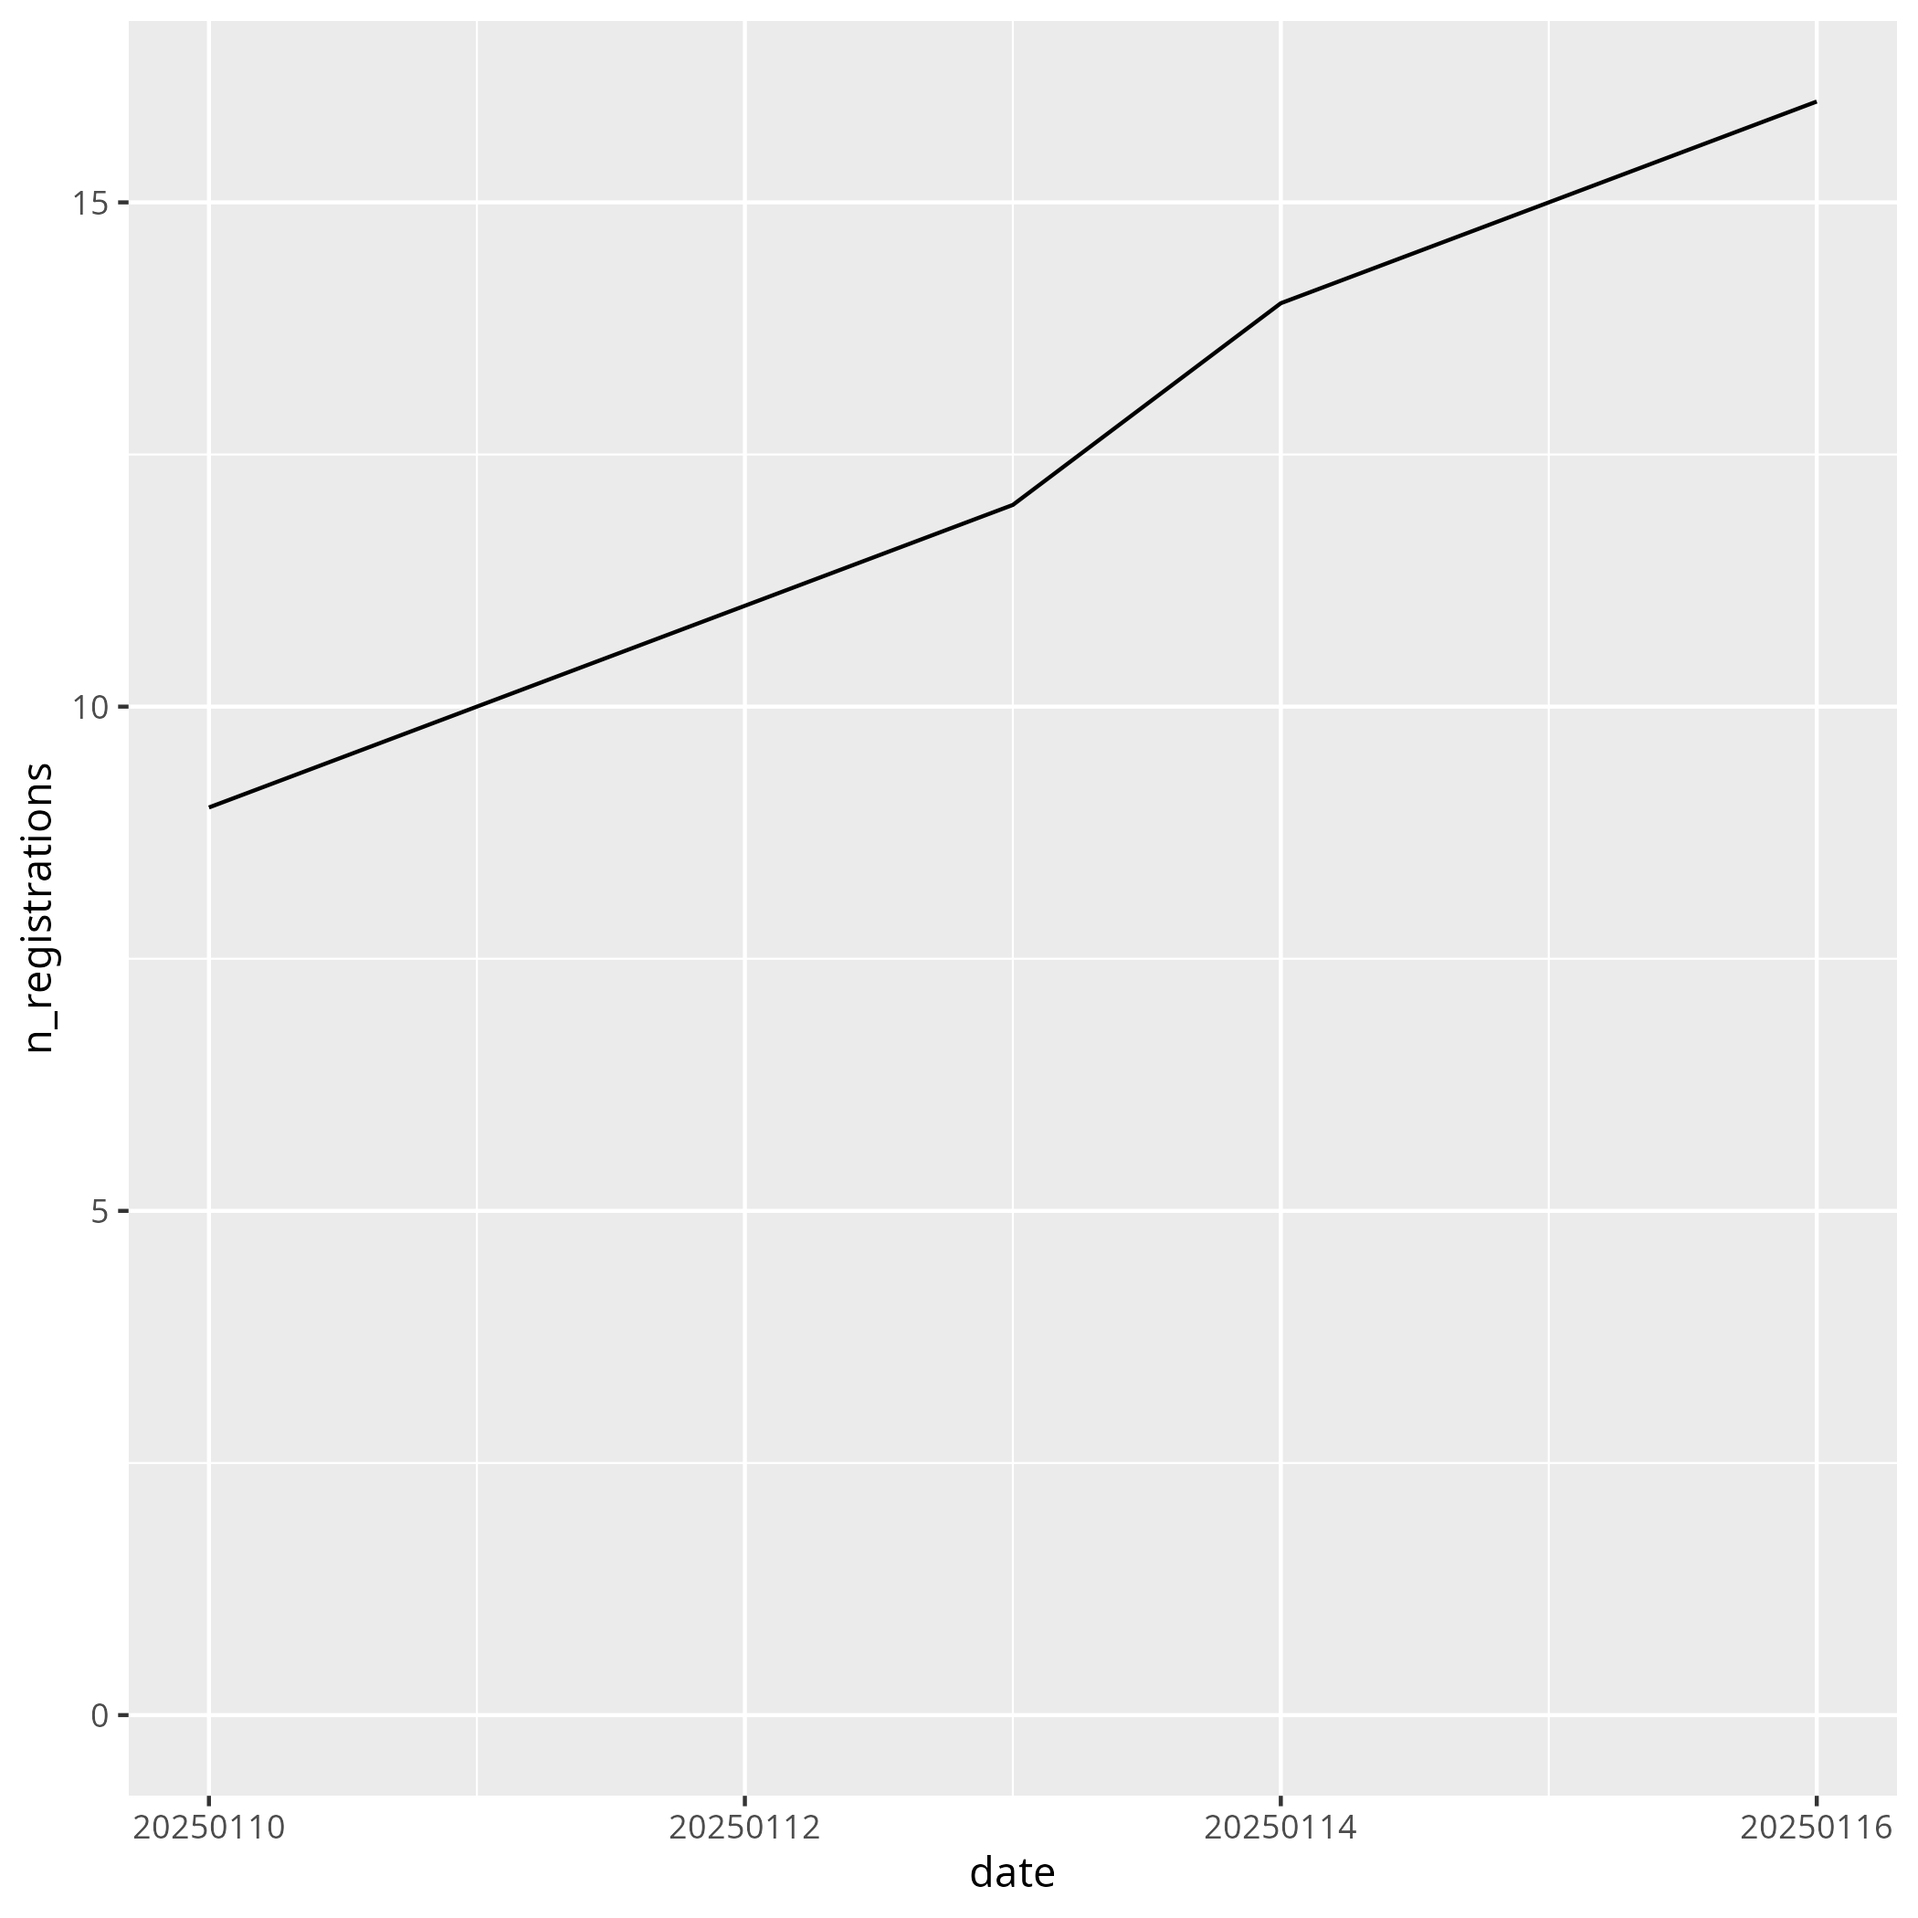
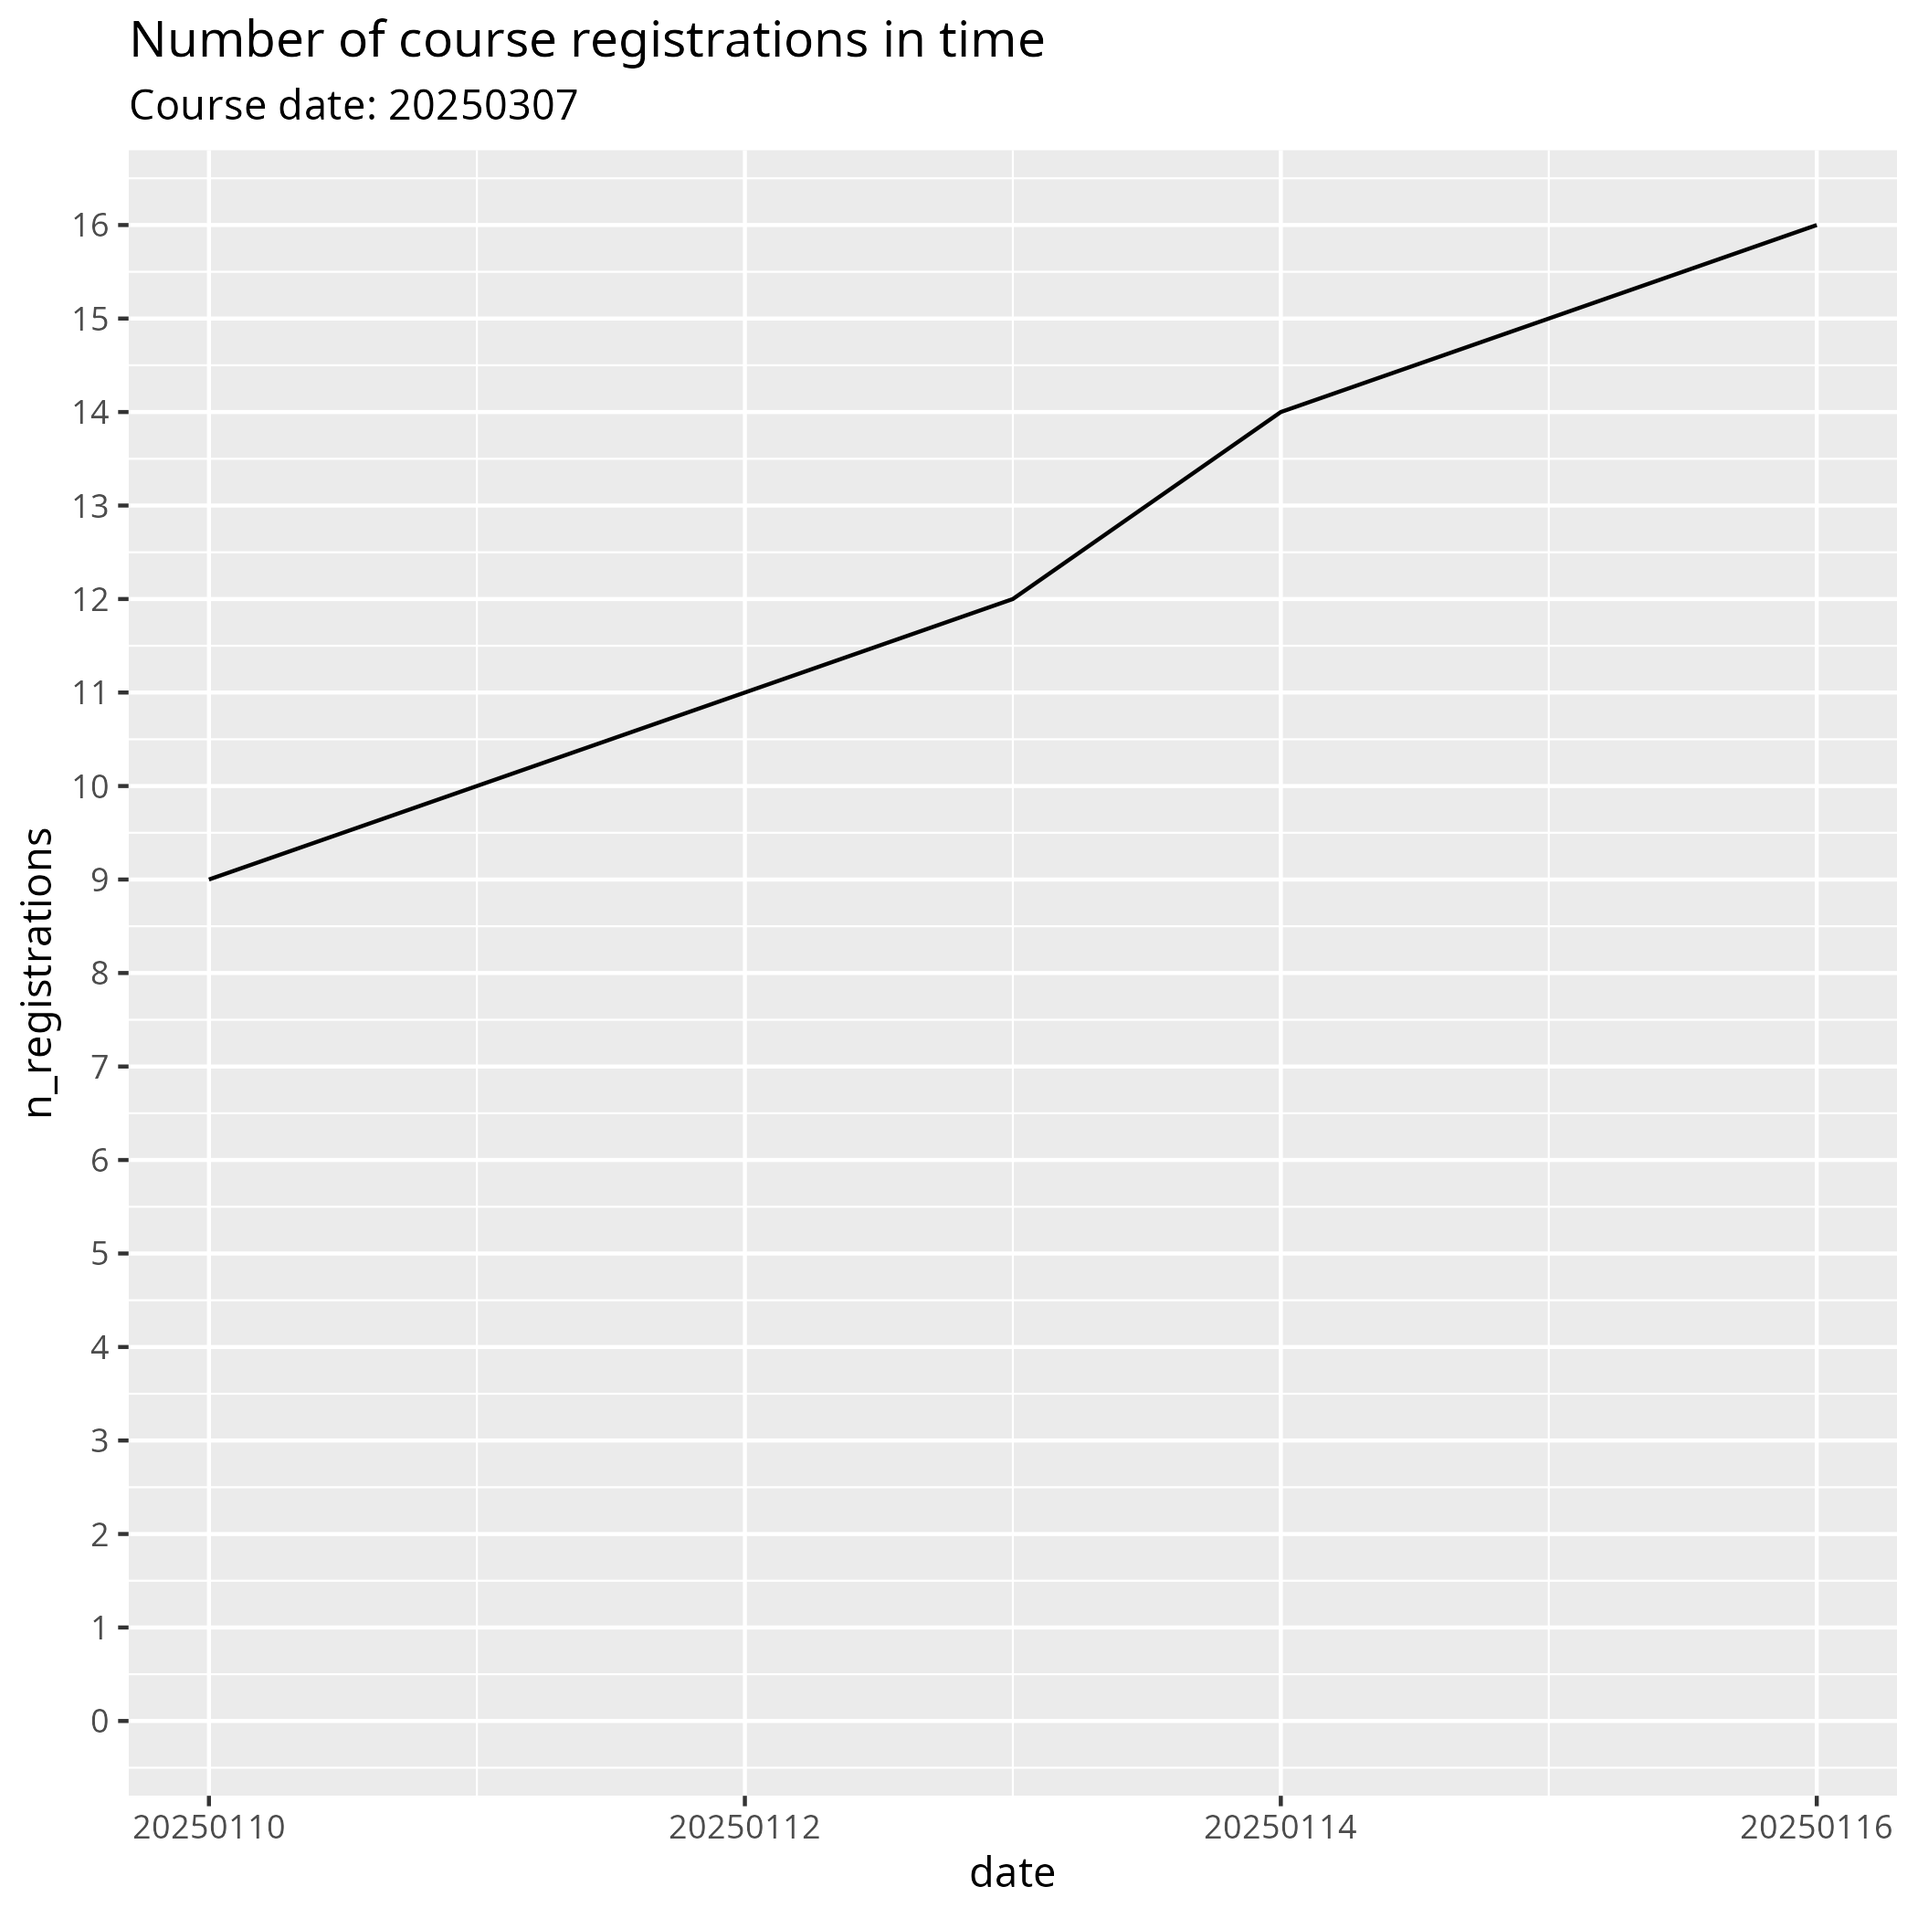
Describe data

diff --git a/docs/data/20250307/README.md b/docs/data/20250307/README.md
@@ -4,6 +4,9 @@
 
 - Data: [n_registrations_in_time.csv](n_registrations_in_time.csv)
 - Code: [plot_n_registrations_in_time.R](plot_n_registrations_in_time.R)
+    - `date`: the date, in `YYYYMMDD` format
+    - `n_registrations`: the total amount of registrations
+      at the end of that day
 
 ![Number of registrations in time](n_registrations_in_time.png)
 
